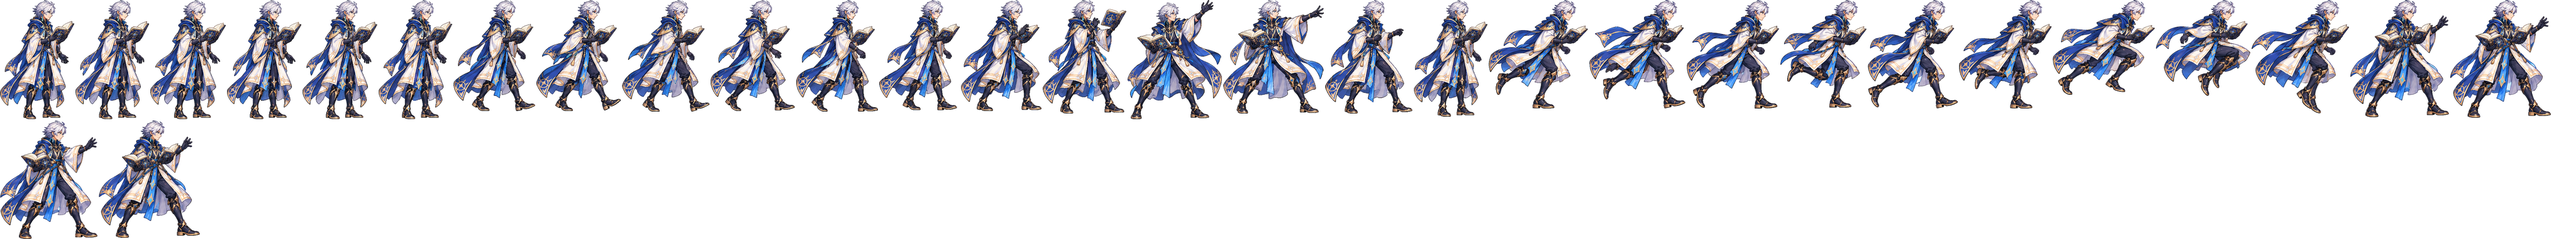
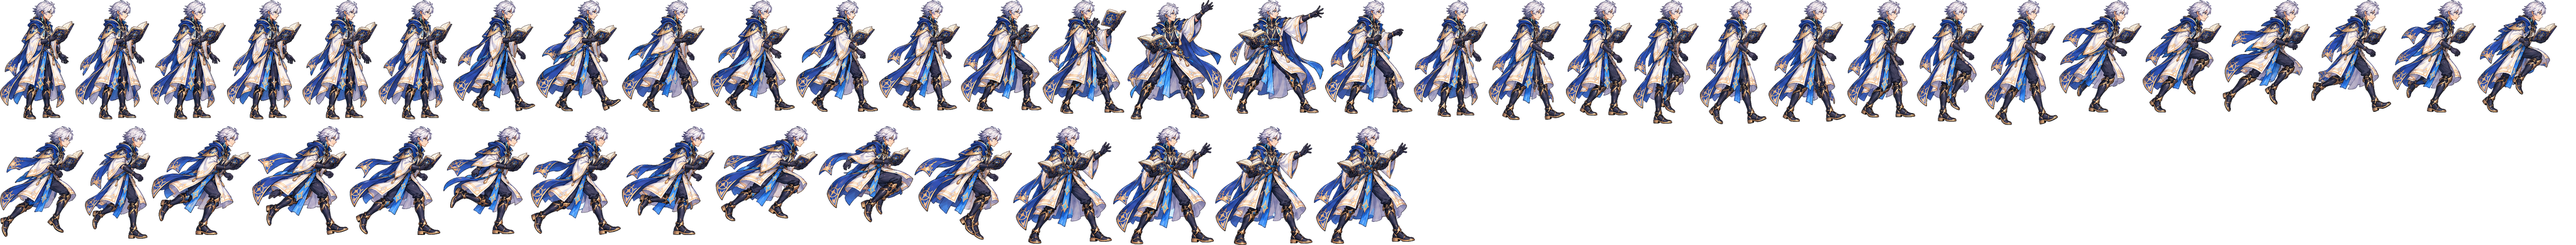
START HERO: the Book Mage's new 8-frame walk and run (GPT)
Claude-Session: https://claude.ai/code/session_01S4kDFHtMwUWSzAyaBY11TJ

diff --git a/tools/heroes/cut.py b/tools/heroes/cut.py
@@ -31,7 +31,7 @@ SPEC = {
                 ('S3', [('whirlwind', 6), ('blade_storm', 6), ('wave_slash', 6)]),
                 ('S4', [('oath', 6), ('radiant_blade', 6), ('banner', 6)]),
                 ('S5', [('war_cry', 6), ('judgment_blade', 6), ('finisher', 6)])],
-    'book_mage': [('A', [('idle', 6), ('walk', 6), ('attack', 6)]), ('B', [('run', 6), ('jump', 3), ('stance', 4)])],
+    'book_mage': [('A', [('idle', 6), ('walk_old', 6), ('attack', 6)]), ('W', [('walk', 8), ('run', 8)]), ('B', [('run_old', 6), ('jump', 3), ('stance', 4)])],
     'samurai': [('A', [('idle', 6), ('walk_old', 6), ('attack', 6)]), ('W', [('walk', 8), ('run', 8)]), ('B', [('run_old', 6), ('jump', 3), ('stance', 4)]),
                 ('S1', [('shadow_step', 6), ('swallow_cut', 6), ('spin_cut', 6)]),
                 ('S2', [('iai_strike', 6), ('sword_wave', 6), ('mirage', 6)]),
